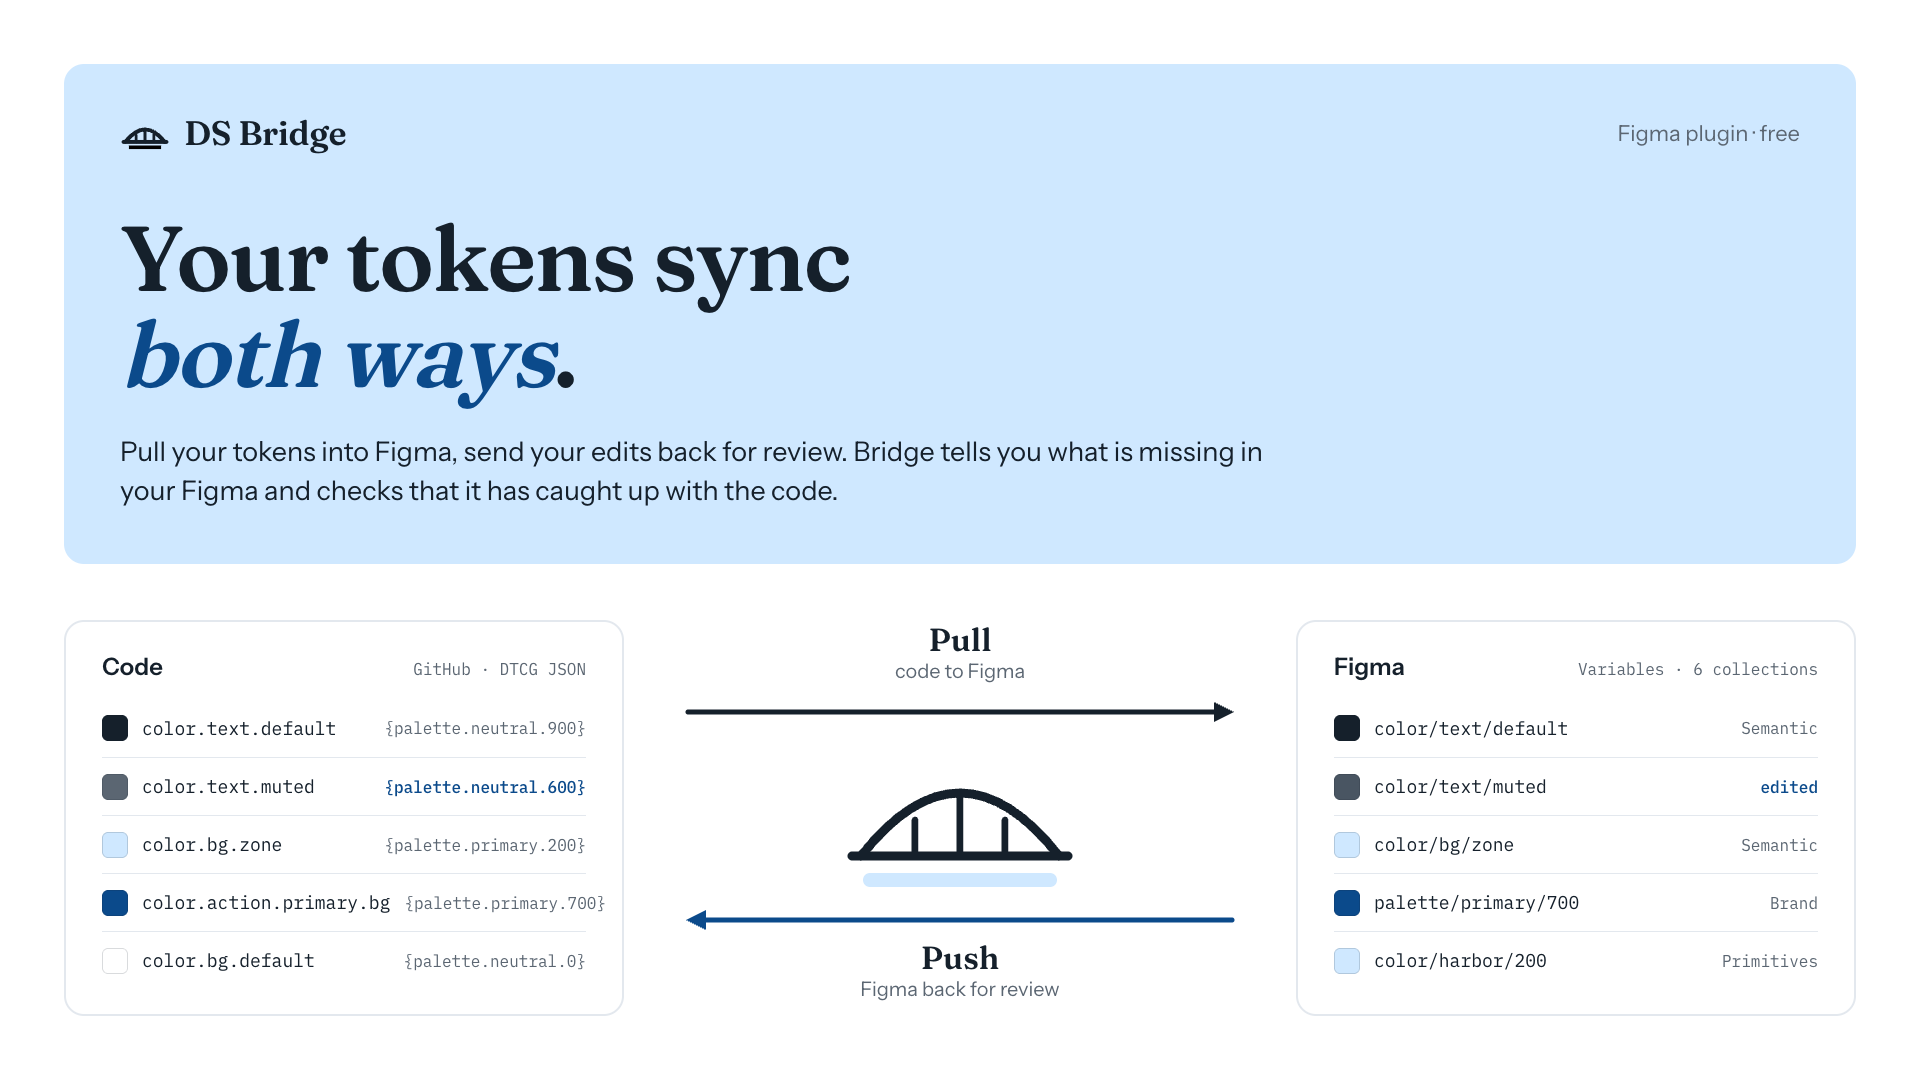
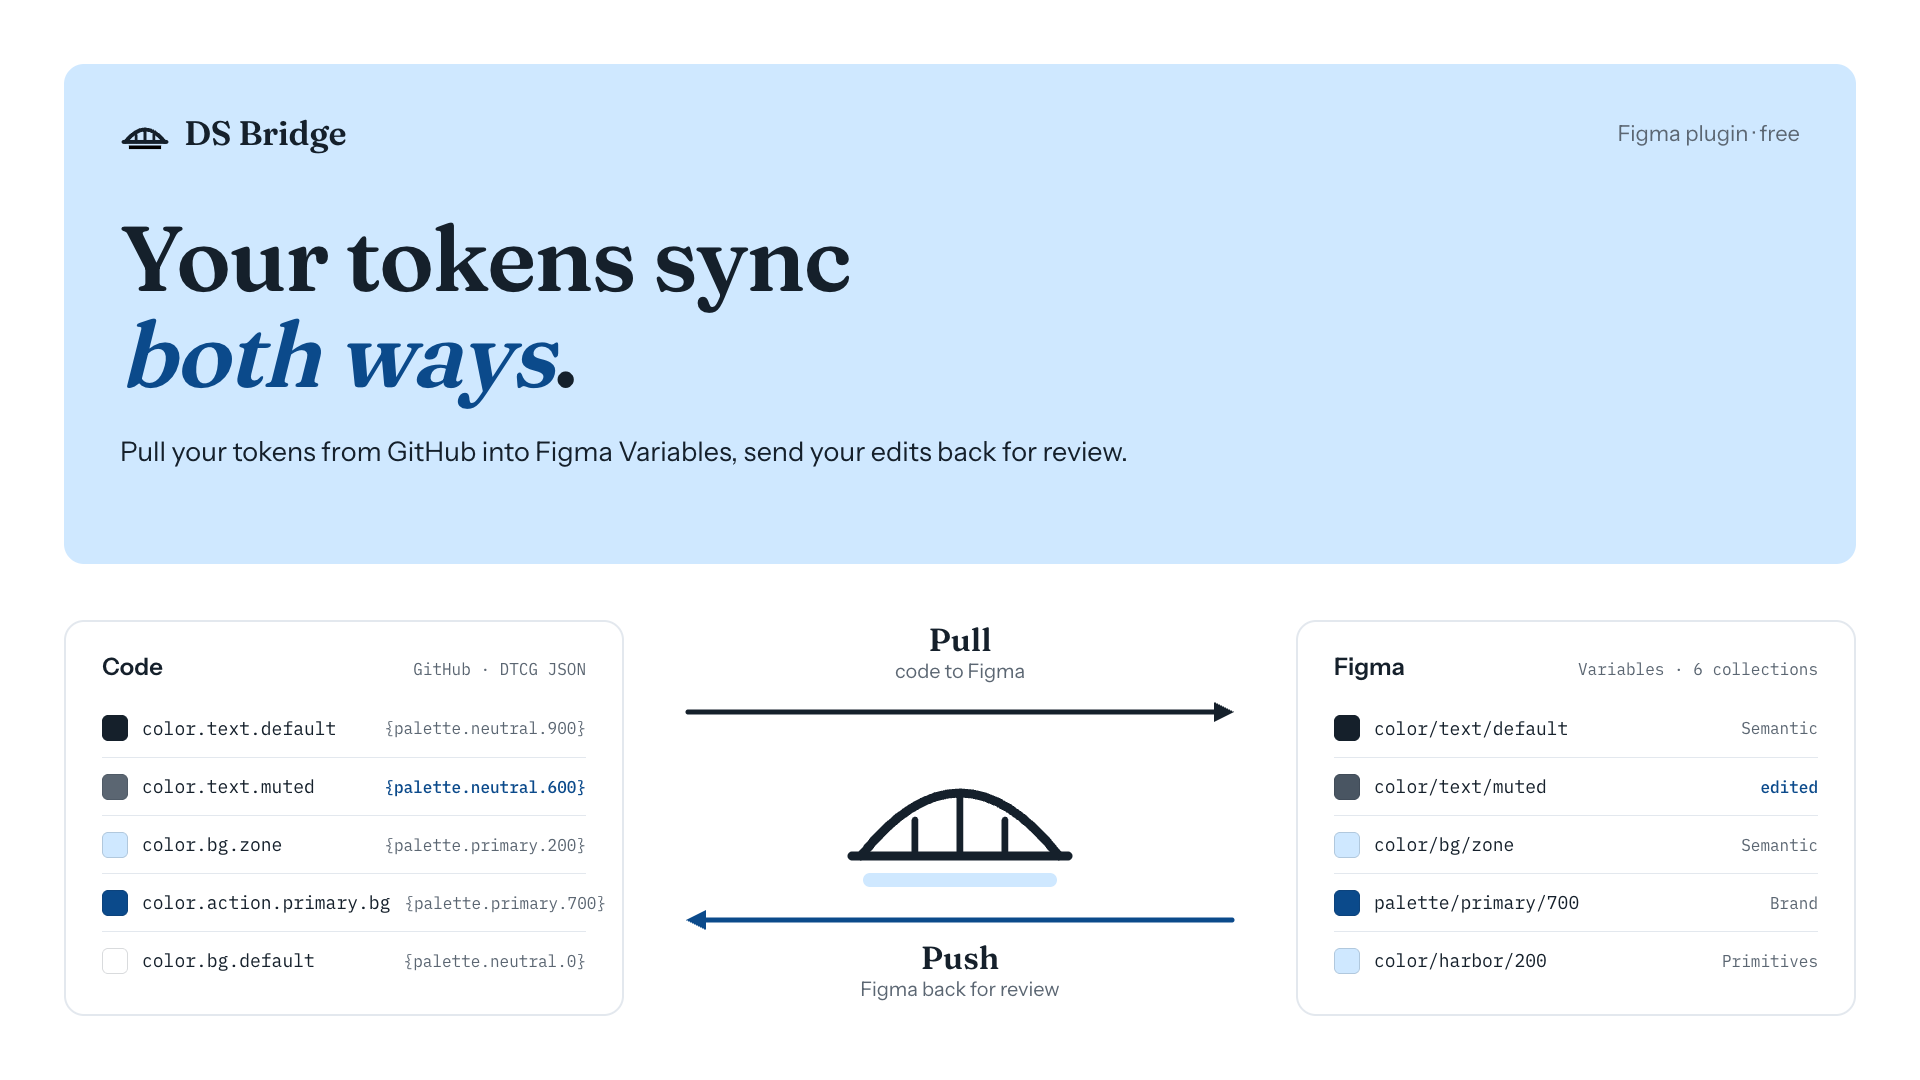
Listing images and release notes for the tokens-only version; changeset
Claude-Session: https://claude.ai/code/session_0187etdiPhAASKAt4kprBmUy

Changed region(s): [[0.0625, 0.3972, 0.6562, 0.4889]]

diff --git a/apps/figma-plugin/community/src/art.html b/apps/figma-plugin/community/src/art.html
@@ -116,7 +116,7 @@
     <div class="tag">Figma plugin · free</div>
   </div>
   <h1>Your tokens sync<br><em>both ways</em>.</h1>
-  <p class="lead">Pull your tokens from GitHub into Figma Variables, send your edits back for review, contrast checked.</p>
+  <p class="lead">Pull your tokens from GitHub into Figma Variables, send your edits back for review.</p>
 
   <div class="plate code">
     <h3>Code <small>GitHub · DTCG JSON</small></h3>

diff --git a/apps/figma-plugin/community/listing.md b/apps/figma-plugin/community/listing.md
@@ -178,11 +178,11 @@ The carousel only shows real UI. Gallery 1 is `dist/ui.html` rendered in Chrome 
 GitHub; outside Figma, the Figma side (the variables and two edits) comes from the plugin's test simulator, as the
 caption says. Galleries 2 and 3 are the live pages, unedited.
 
-Rendered again on 2026-11-16 for the MVP scope: gallery 1 shows the Pull of a first file with "0 of 81 components
-from the code are in this file" and the missing ones, and the Push with **Send for review**; galleries 2 and 3 are
-the Bridge DS team in Studio (`/studio/~/the-bridge-company/ai-design-system-demo/`), PR #468 and its tokens. The
-PR #468 page is captured down to its conversation (`clipHeight` in `web-shots.mjs`): the crop is made at capture,
-the page itself is not edited. Below it the live page shows the status of its before and after images, left out.
+Rendered again on 2026-11-18 for the tokens-only scope: the cover and gallery 1 (the Pull of a first file with its
+610 variables, and the Push with **Send for review**). Galleries 2 and 3 are the 2026-11-16 renders: the Bridge DS
+team in Studio (`/studio/~/the-bridge-company/ai-design-system-demo/`), PR #468 and its tokens. The PR #468 page is
+captured down to its conversation (`clipHeight` in `web-shots.mjs`): the crop is made at capture, the page itself is
+not edited.
 
 ## How to publish (owner)
 
@@ -210,6 +210,18 @@ must be on for that account (Figma requires it to publish).
     Settings > Environment Variables > `PLUGIN_URL` = the Community URL, for Production, then redeploy.
 
 Later releases: build, then **Publish new version** from the same menu, with release notes. The id stays the same.
+
+### Release notes, version of 2026-11-18
+
+```
+Tokens only, and easier to start.
+- Sign in with Bridge: pick your team in the browser, no token to paste.
+- Push follows your repository: a suggestion for your design system lead, or a pull request with the contrast before and after.
+- A pair that fails contrast blocks the send, in every brand and theme.
+- Component features are out of this version: the plugin syncs your tokens, nothing else.
+```
+
+Update the description and the cover, and replace carousel 1, in the same dialog.
 
 ## Rebuild the images
 

diff --git a/.changeset/plugin-tokens-only.md b/.changeset/plugin-tokens-only.md
@@ -1,0 +1,5 @@
+---
+'@bridge-ds/figma-plugin': minor
+---
+
+The MVP plugin syncs tokens only (owner decision 2026-11-18). Pull no longer lists the components from the code missing in the file (matched by name, it could not see a team's library components, and nothing could be done with the list while drawing is hidden), and Compare with code is hidden (it compares the sets Bridge drew). The file is no longer read for component names in the MVP. Code kept behind `PLUGIN_MVP_SCOPE`. The Community listing, its cover and gallery 1, the plugin README and /docs/figma-plugin/ say "Your tokens sync both ways."
